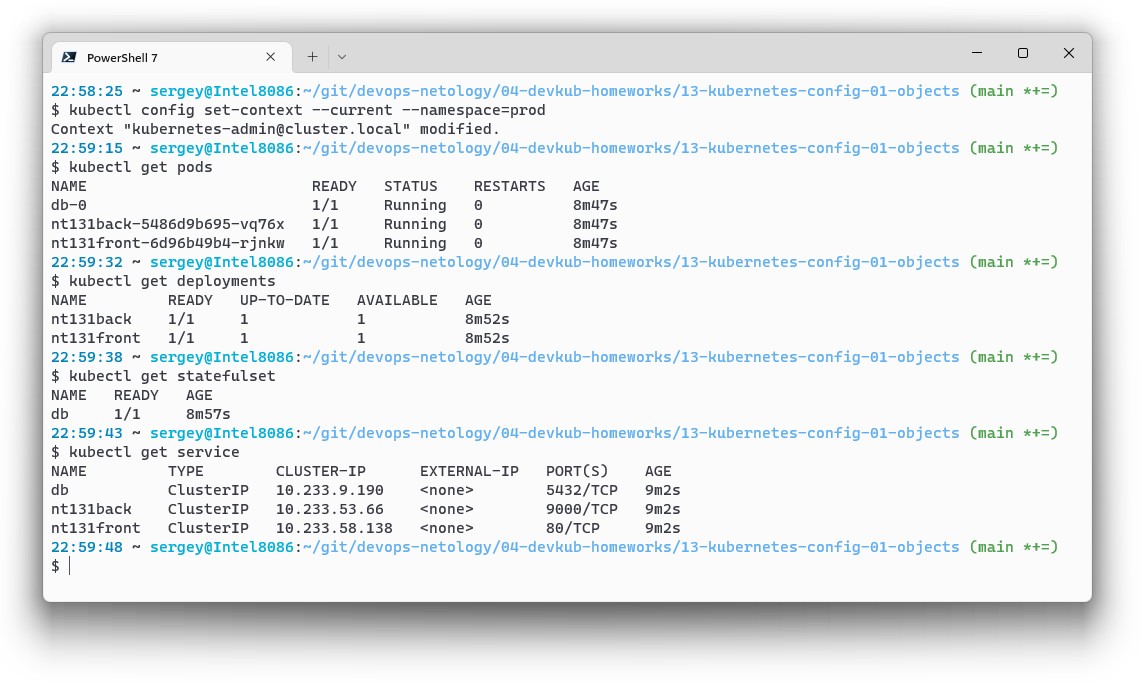
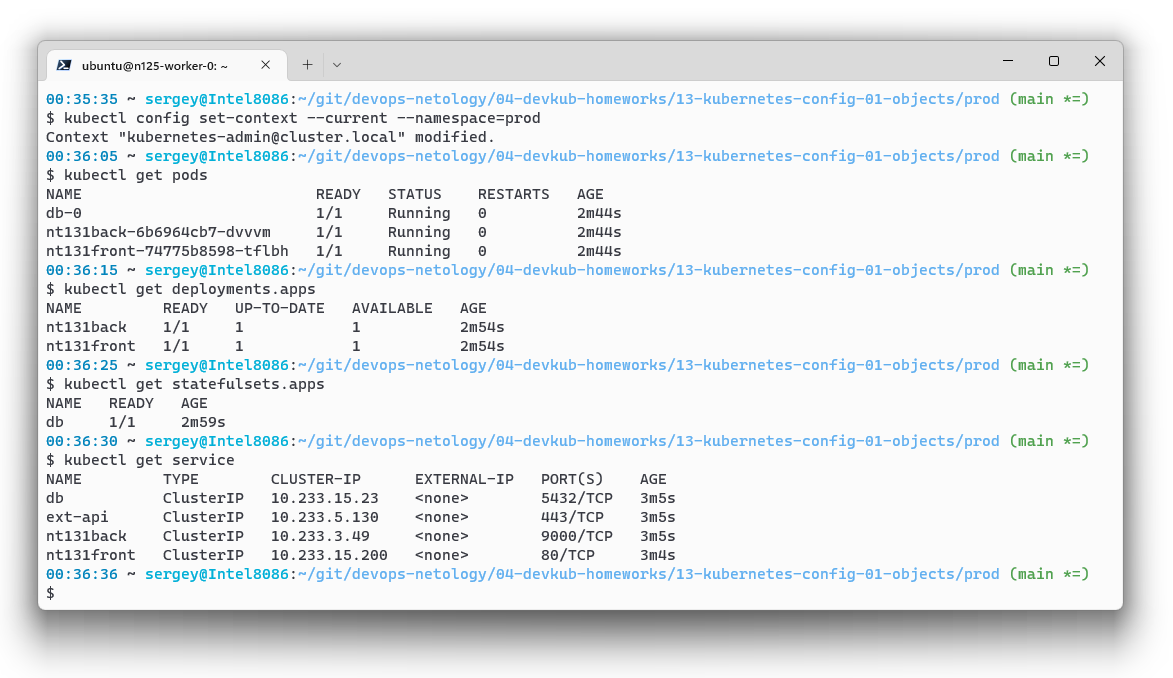
13: 3 done, all done

Changed region(s): [[0.0, 0.031, 0.9807, 0.9912]]

diff --git a/04-devkub-homeworks/13-kubernetes-config-01-objects.md b/04-devkub-homeworks/13-kubernetes-config-01-objects.md
@@ -39,12 +39,10 @@
 > Приложению потребовалось внешнее api, и для его использования лучше добавить endpoint в кластер, направленный на это api. Требования:
 > * добавлен endpoint до внешнего api (например, геокодер).
 
----
+Манифест: [endpoint.yml](./13-kubernetes-config-01-objects/prod/endpoint.yml)
 
-### Как оформить ДЗ?
+Скриншот терминала:
+* Список эндпоинтов
+* `curl` из пода фронта к сервису/эндпоинту
 
-> Выполненное домашнее задание пришлите ссылкой на .md-файл в вашем репозитории.
-> 
-> В качестве решения прикрепите к ДЗ конфиг файлы для деплоя. Прикрепите скриншоты вывода команды kubectl со списком запущенных объектов каждого типа (pods, deployments, statefulset, service) или скриншот из самого Kubernetes, что сервисы подняты и работают.
-
----
+![Скриншот терминала](./media/13-3-%D1%81%D0%BA%D1%80%D0%B8%D0%BD%D1%88%D0%BE%D1%82-%D1%82%D0%B5%D1%80%D0%BC%D0%B8%D0%BD%D0%B0%D0%BB%D0%B0.png)
